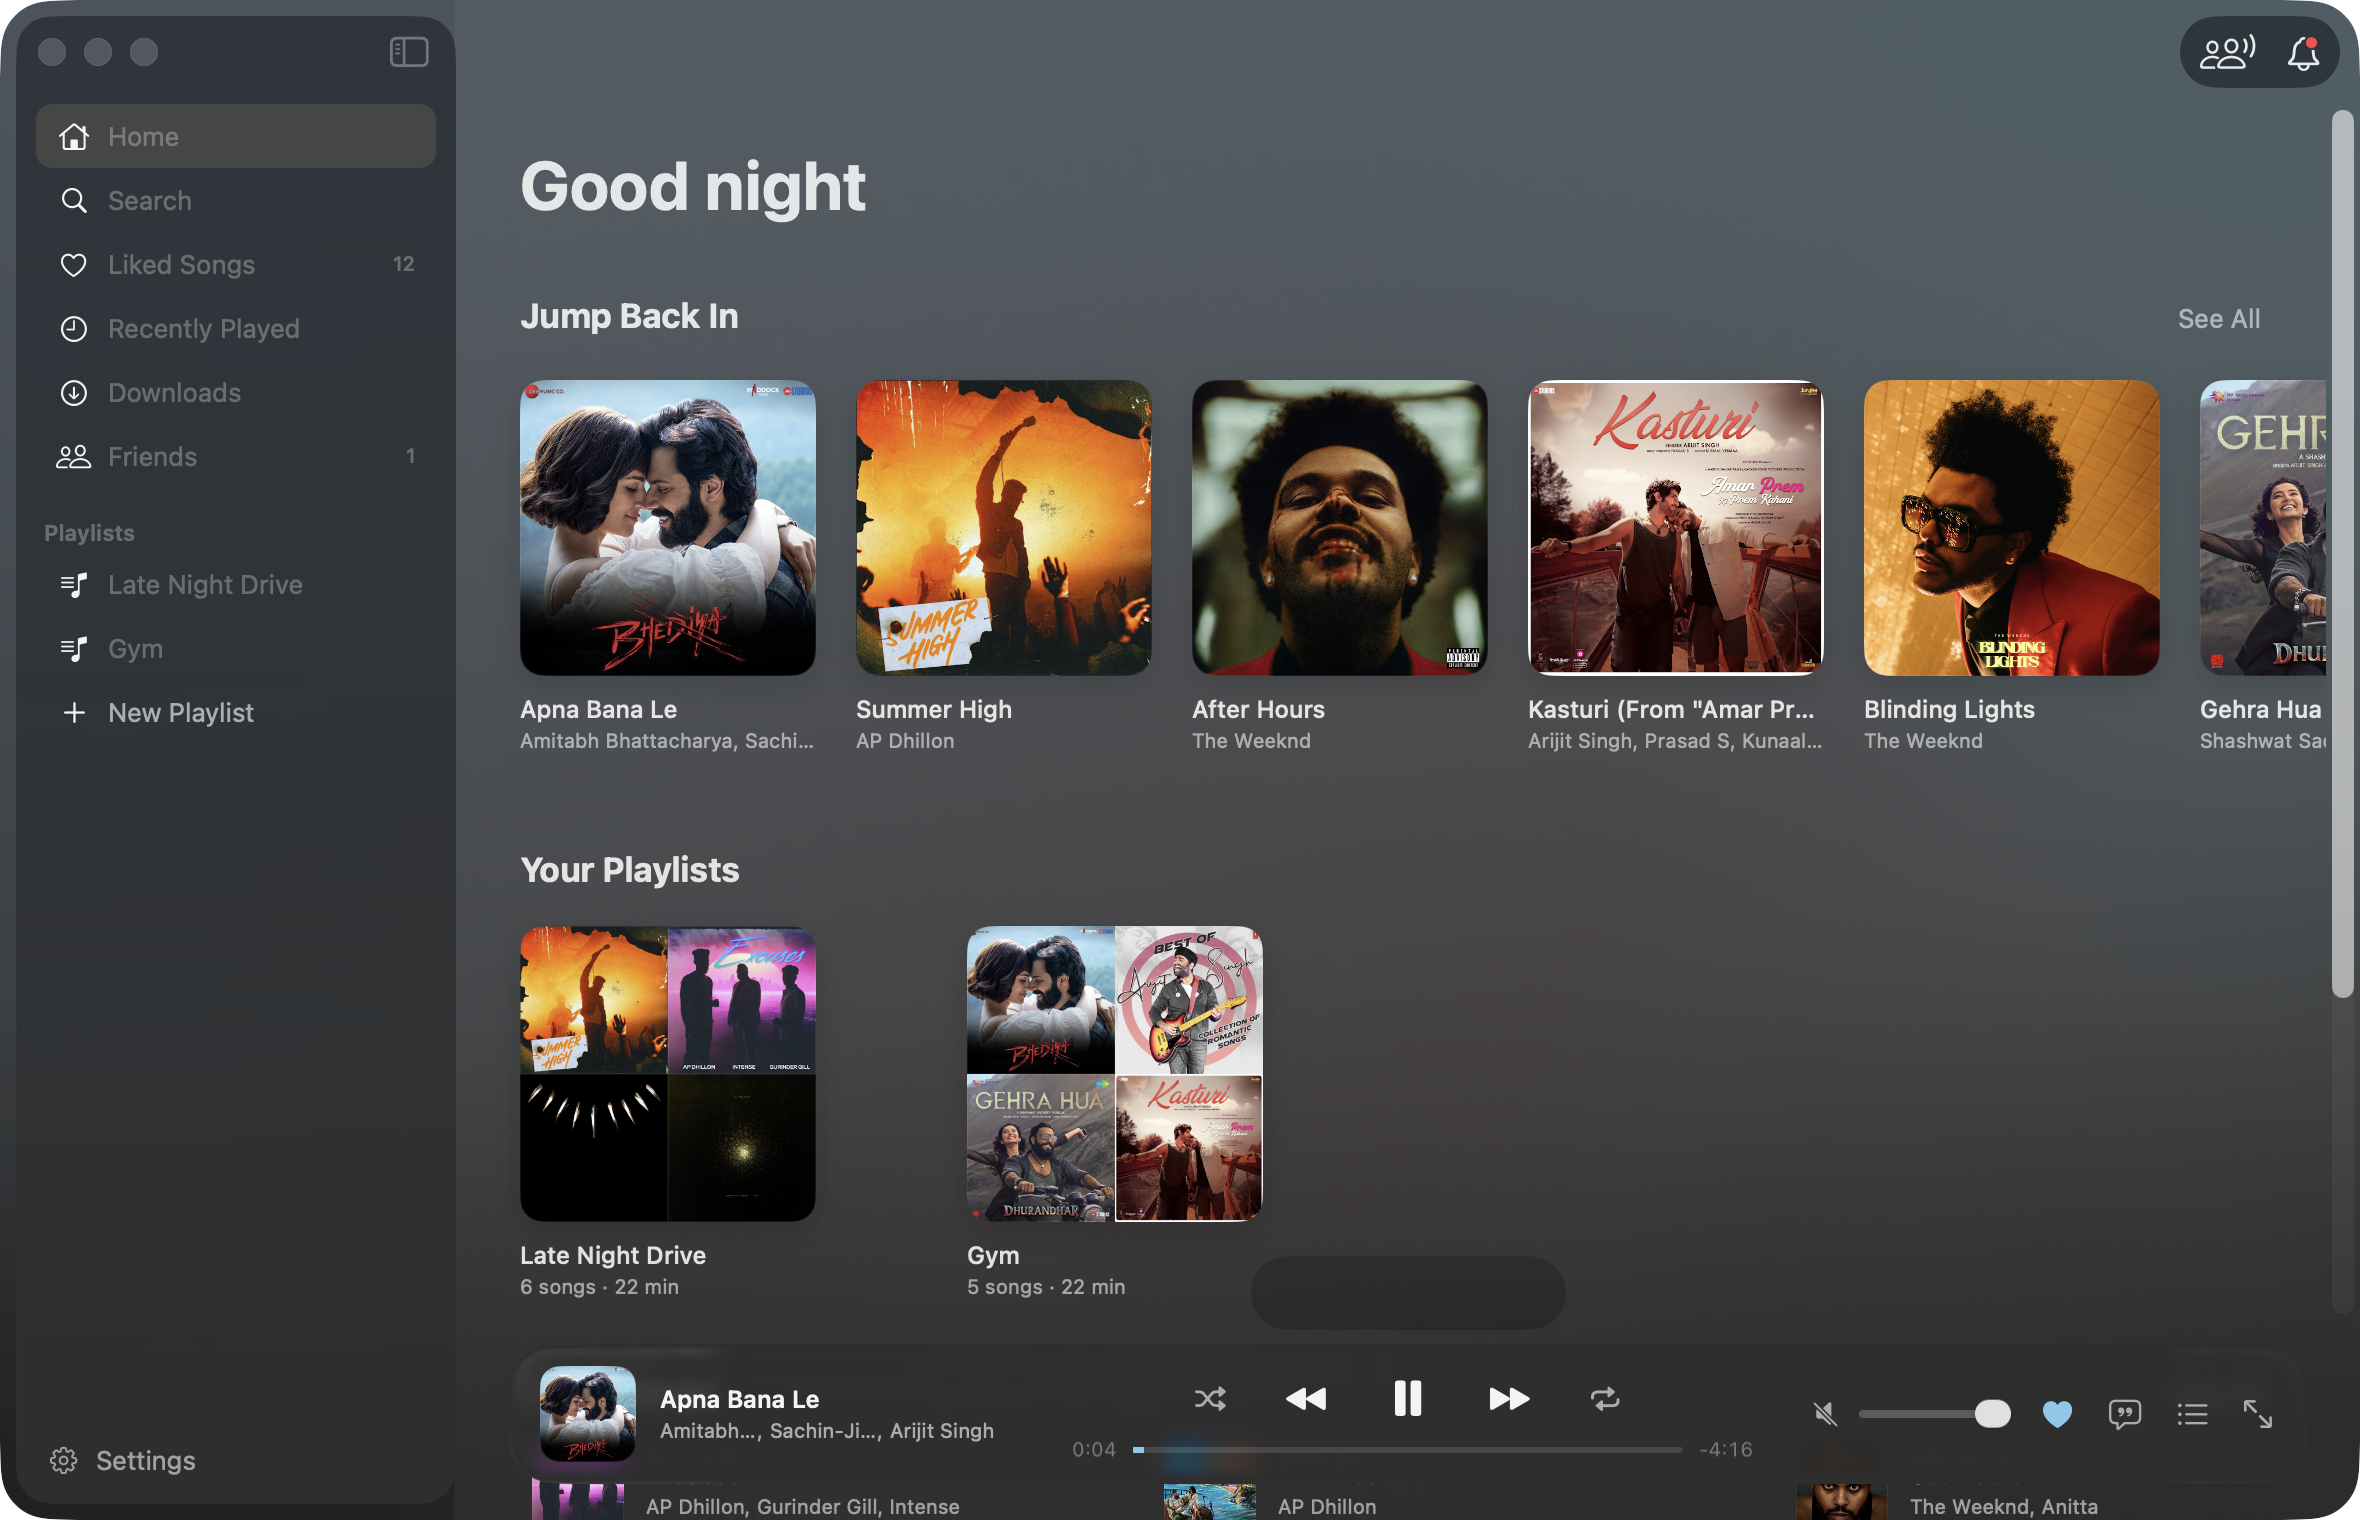
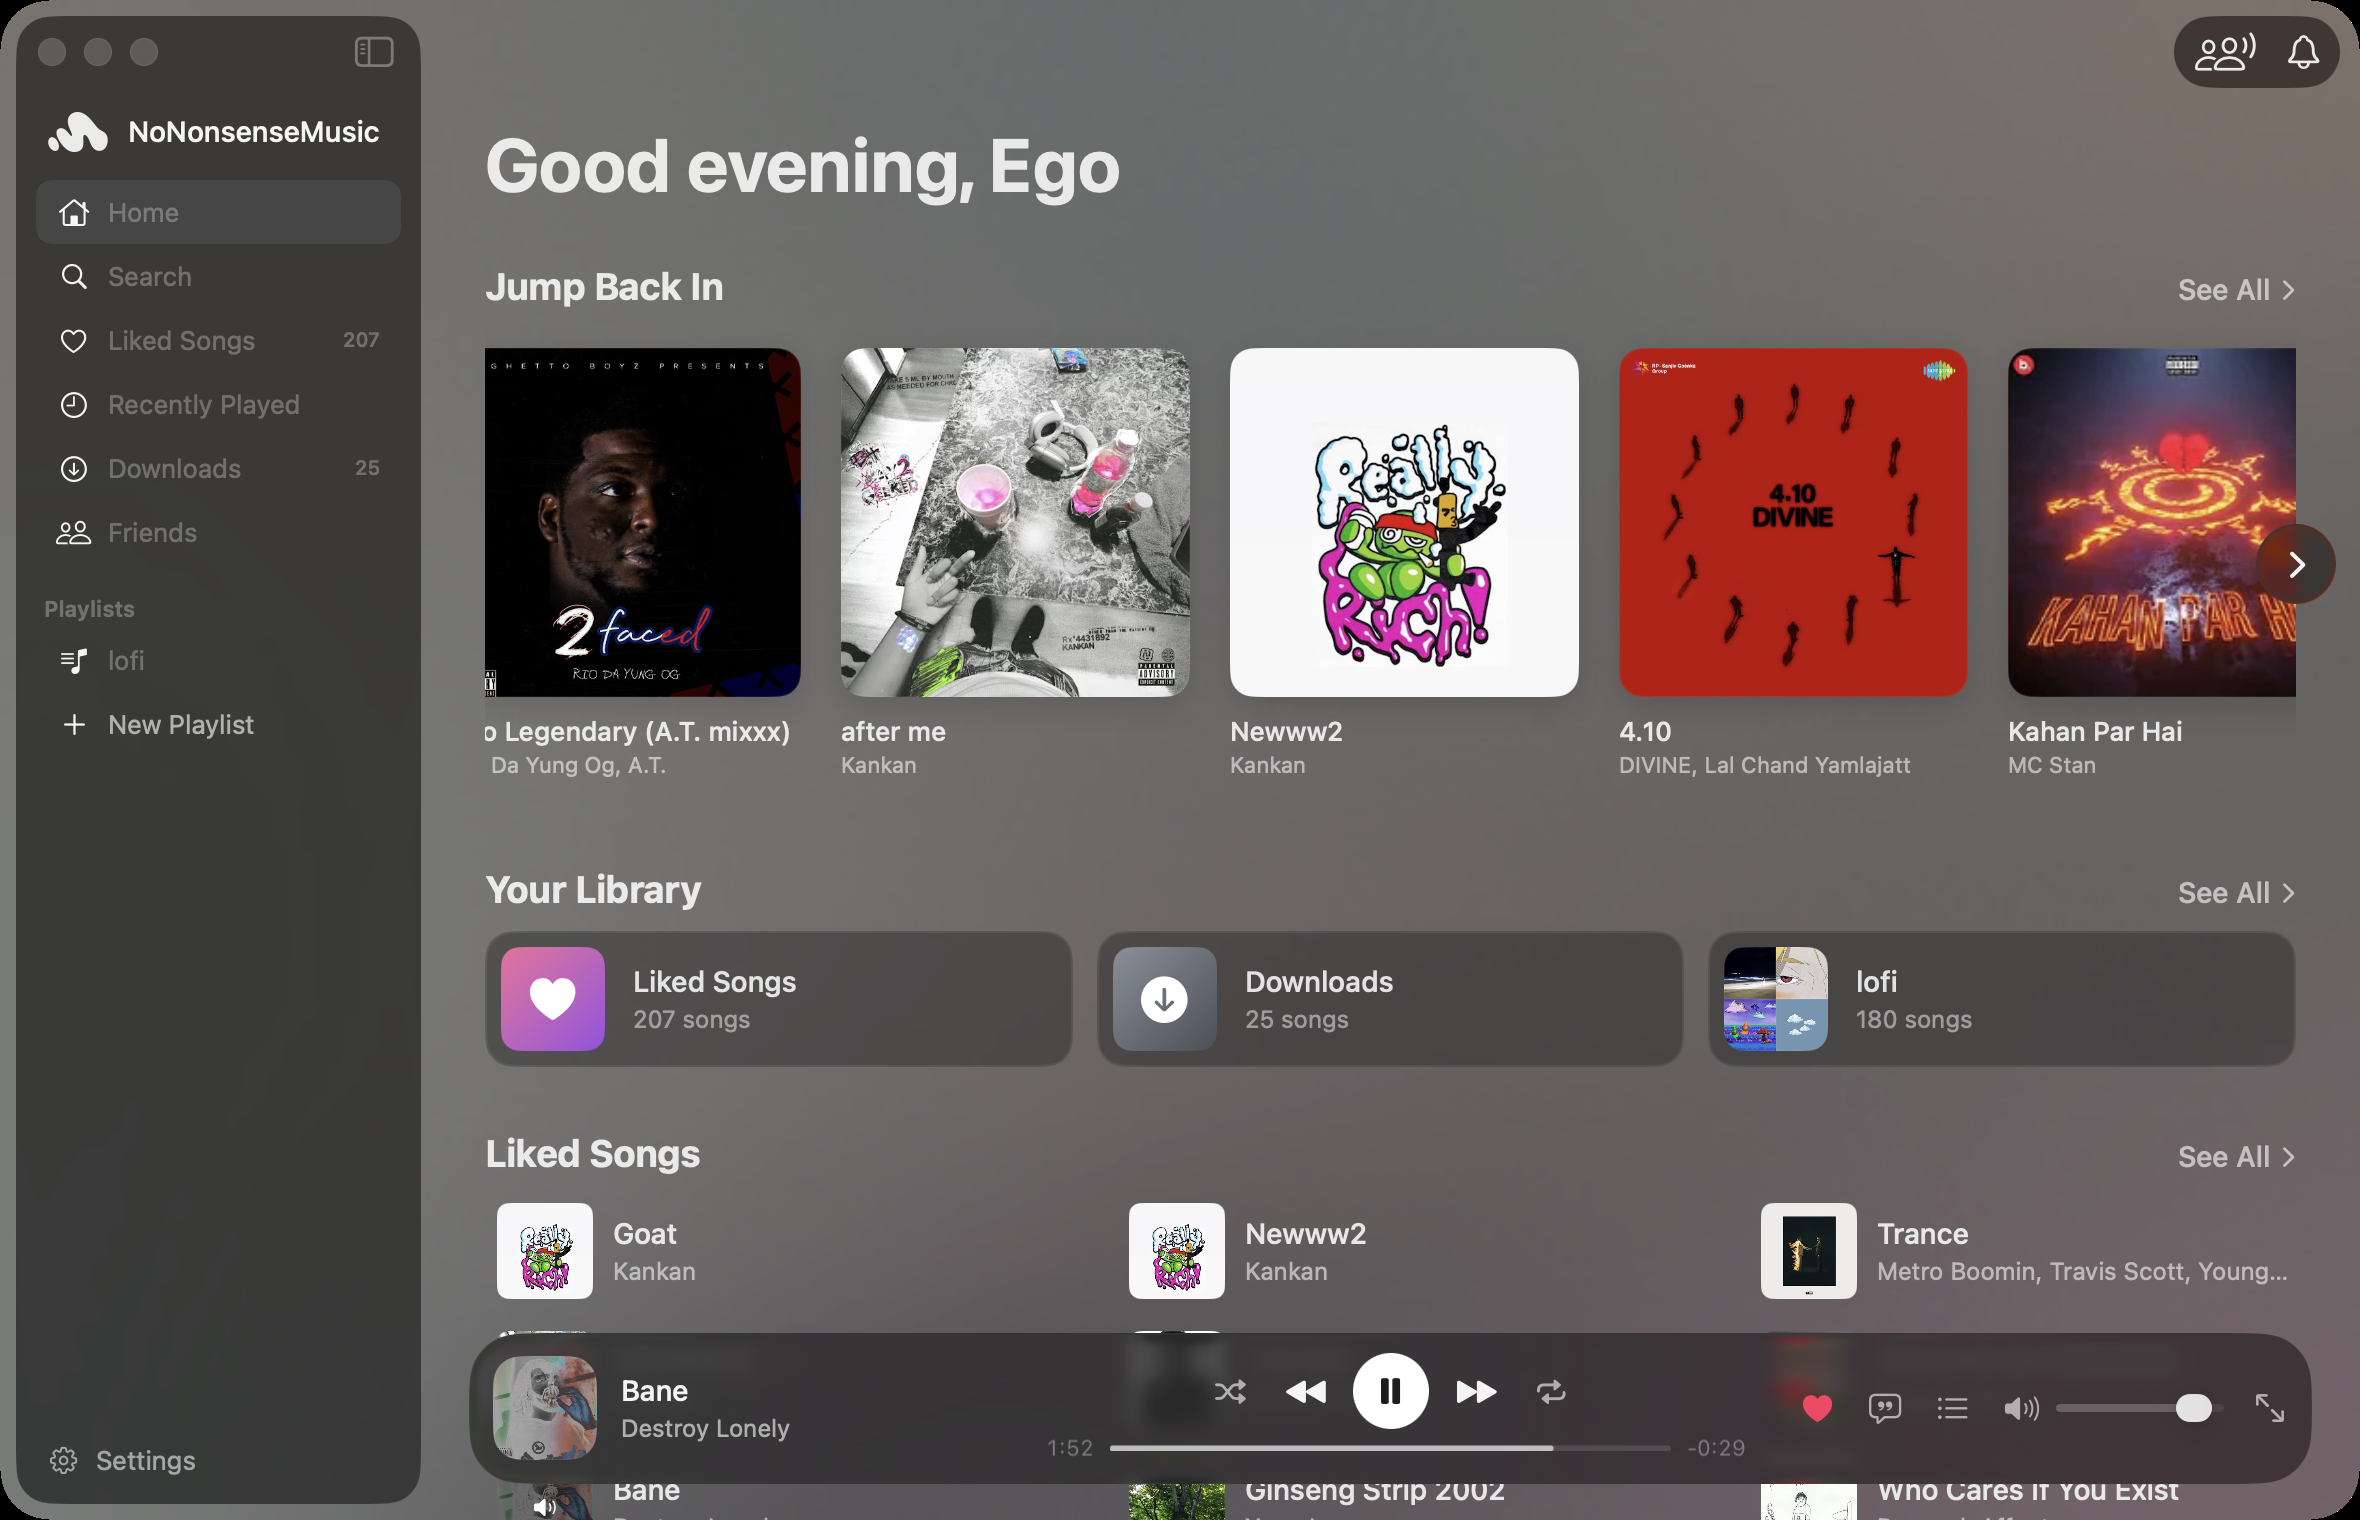
README: new Mac picture, and Windows and Android ones

diff --git a/README.md b/README.md
@@ -104,12 +104,26 @@ The Mac app is written in SwiftUI and follows the platform closely.
 - Pinch out on the player bar to open Now Playing, and pinch in to close it.
 - On a Force Touch trackpad, scrubbing, reordering a playlist and errors give haptic feedback.
 - The window's transparency can be adjusted, and its background takes its colours from the current cover.
+- Two looks: Classic, which follows the Mac's own apps, and New, the redesign. Settings › Appearance › Look.
 - Lyrics are translated on the device for the languages Apple supports.
 - Media keys and Control Center control playback.
 - Keyboard shortcuts cover playback, volume, search and lyrics.
 - What you are listening to can be shown on your Discord profile.
 - Settings › Footprint shows the CPU and memory the app is using.
 - Started from the repository, the app starts the server itself when none is running.
+
+## On Windows and Android
+
+The Windows and Android app is written in Flutter, from one codebase. In a wide window it has a sidebar and a command bar (Ctrl+K); on a phone it has four tabs: Home, Search, Library and Friends.
+
+<img src=".github/screenshots/wide.png" alt="The wide layout, as on Windows (pictured on an Android tablet)" width="760">
+
+<p>
+<img src=".github/screenshots/phone-home.png" alt="Home on Android" width="200">
+<img src=".github/screenshots/phone-search.png" alt="Search on Android" width="200">
+<img src=".github/screenshots/phone-playing.png" alt="Now Playing on Android" width="200">
+<img src=".github/screenshots/phone-library.png" alt="Library on Android" width="200">
+</p>
 
 ## Privacy
 
